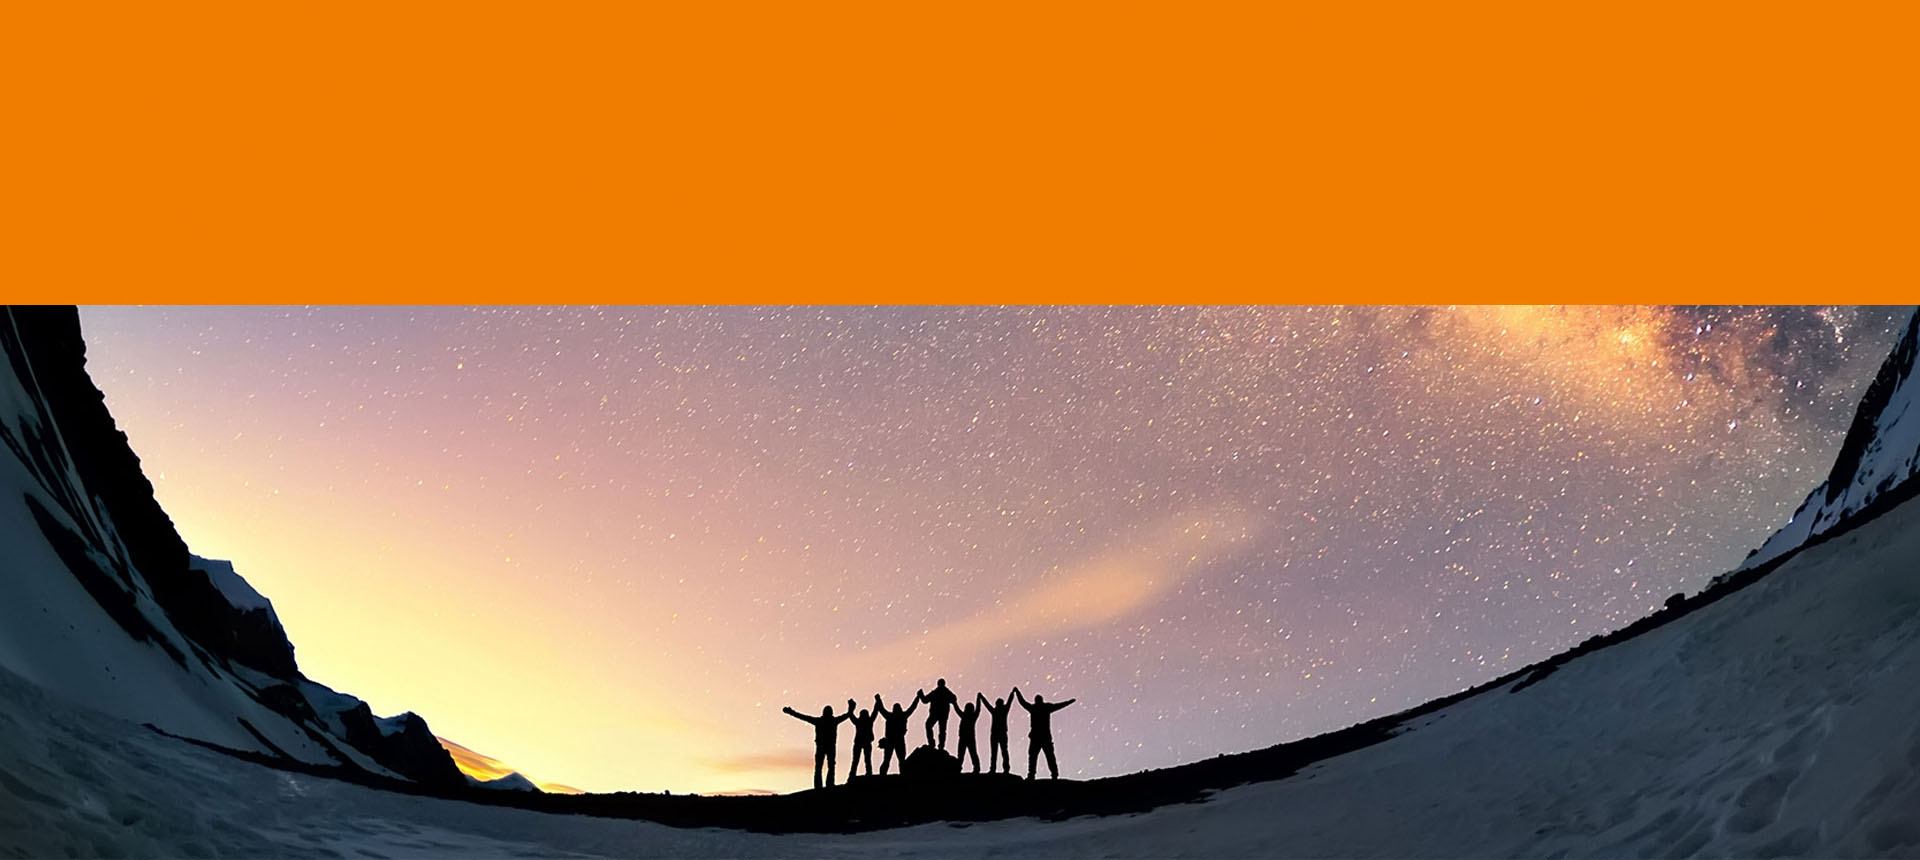
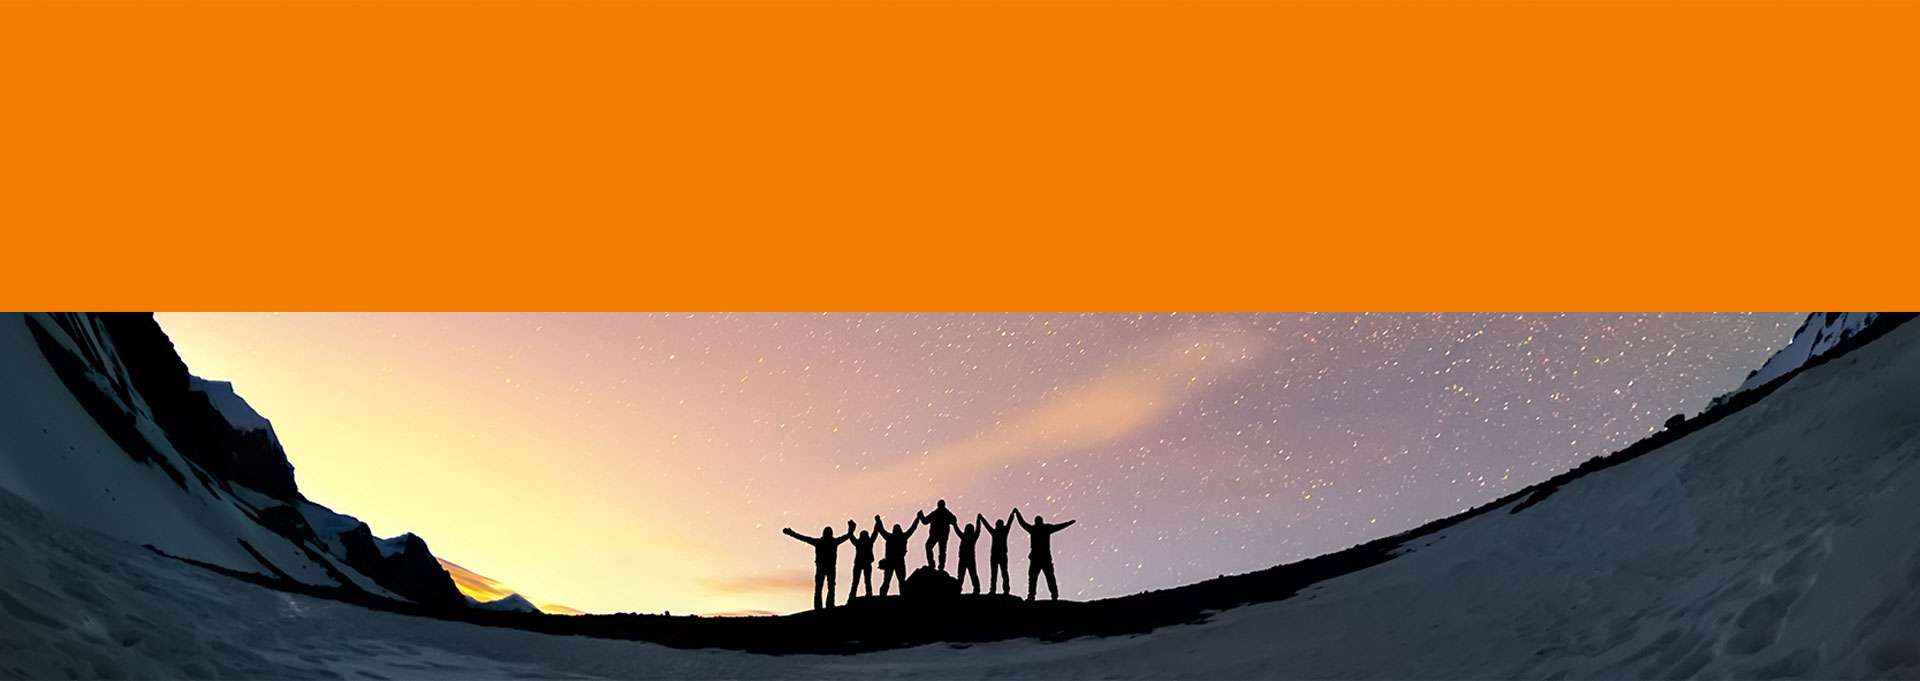
服务体系banner修改

Changed region(s): [[0.0, 0.3392, 1.0, 0.9868], [0.0312, 0.8943, 0.0625, 0.9251], [0.0, 0.7401, 0.0312, 0.7709]]

diff --git a/css/bootstrap.css b/css/bootstrap.css
@@ -9669,7 +9669,7 @@ img.mfp-img {
 .serviceBanner{
   background: url(../images/serviceBanner.jpg) no-repeat center center;
   width:100%;
-  height: 860px;
+  height: 680px;
   overflow:hidden;
   position:relative;
 }
